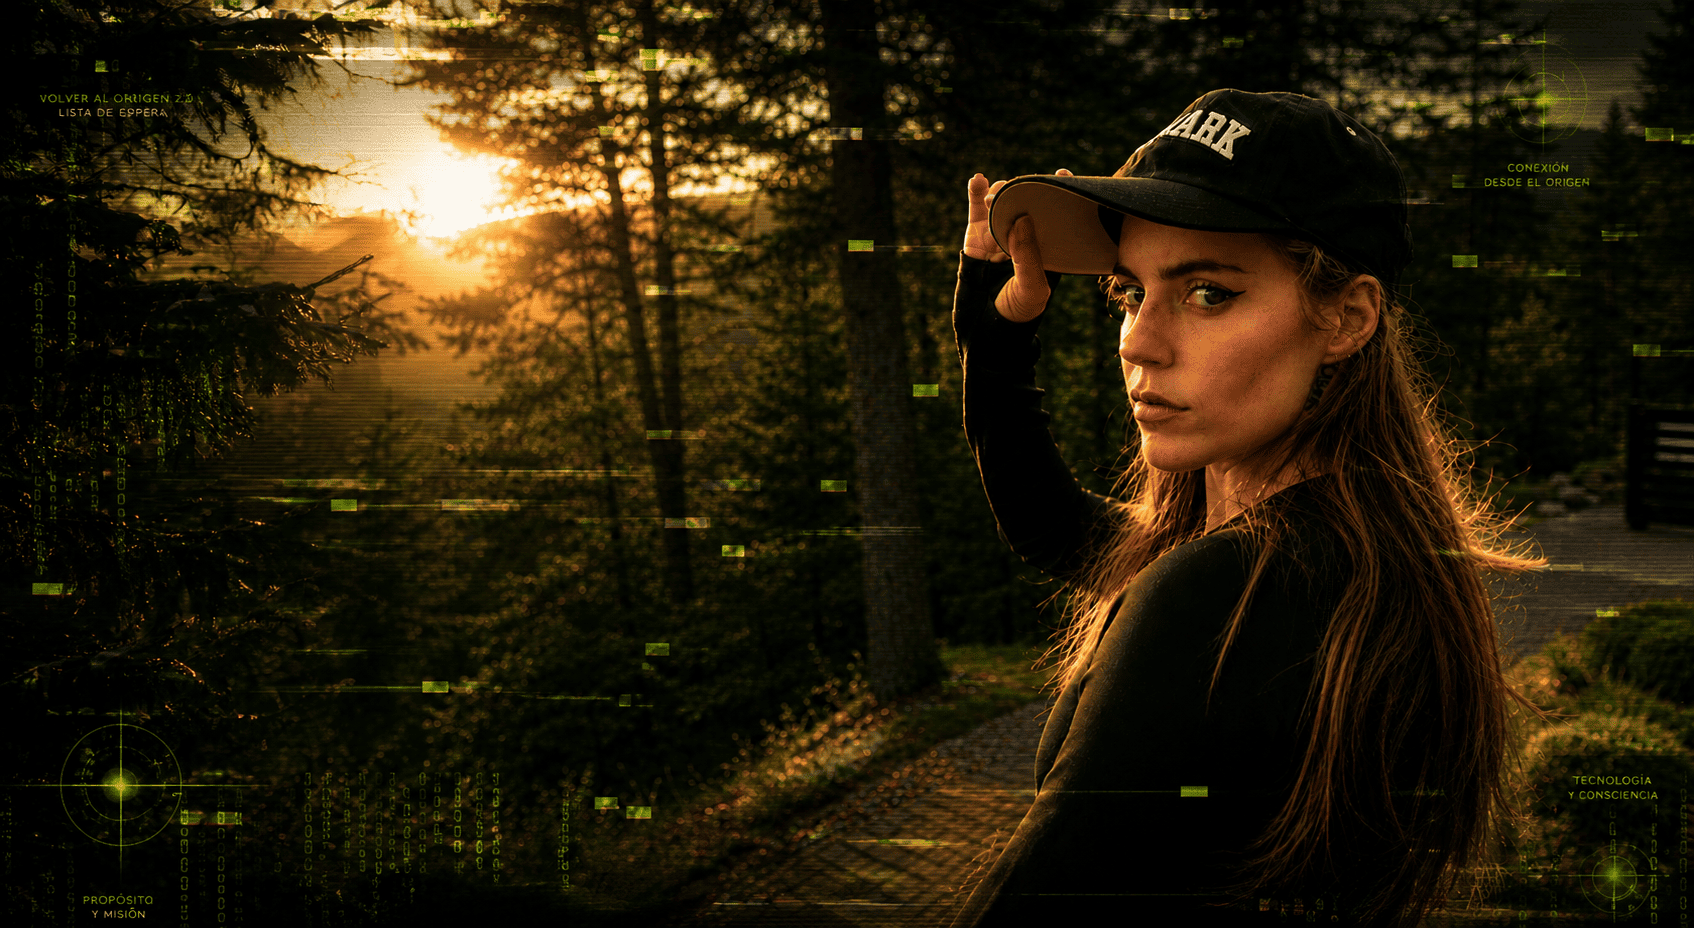
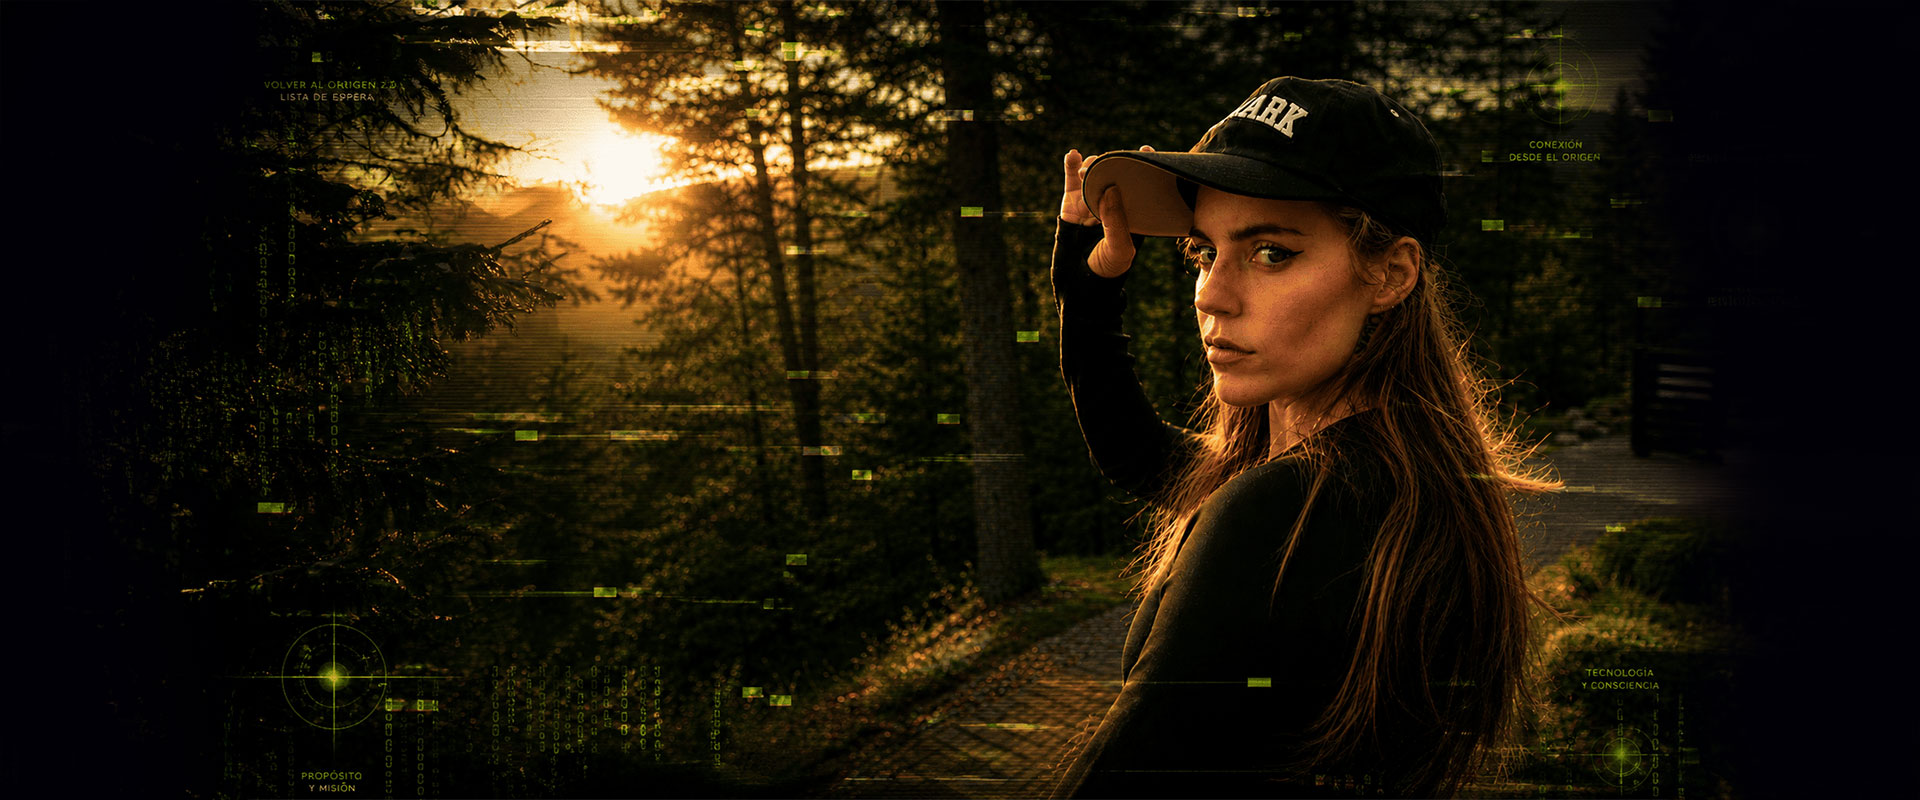
feat(volver-al-origen): raiz del dominio de pauta y hero a 800px
Enrutado
- lp.pilarsousa.es/ pasa a servir la landing de lista de espera, con un
  rewrite condicionado por host: la URL sigue siendo / y los demas
  dominios conservan la landing de venta en su raiz.
- Se retira el redirect de /ventas a / en ese dominio. Con la raiz ya
  ocupada por la lista de espera, ese redirect habria mandado a quien
  buscara la pagina de venta a un formulario de espera, y la habria
  dejado inalcanzable ahi. Ahora /ventas la sirve directamente.

Hero en escritorio
- La seccion pasa de ~1100 a ~817px de alto. hero-seccion.png mide
  1920x800 (2,4:1) y a 1100 la proporcion caia a 1,74:1, con lo que
  object-cover recortaba los laterales y se perdia composicion.
- Para que el panel entrase se recortaron 285px repartidos entre
  padding, logo, titulo, intro, campos y margenes. Todo con prefijo lg:,
  asi que movil y tablet quedan igual.
- min-h y no altura fija: la seccion lleva overflow-hidden y una altura
  fija recortaria el formulario si el contenido creciera.

Otros
- El badge de "Lista de espera" en el hero.
- Las luces del panel se recortan a la banda del borde en vez de verse
  como discos a traves del cristal.
- La bio de Pilar deja de ser desplegable y se muestra completa.

El formulario SIGUE siendo una maqueta: no envia el lead a ningun sitio,
y ahora esta en la raiz del dominio de pauta.

diff --git a/src/components/volver-al-origen/sections/Hero.tsx b/src/components/volver-al-origen/sections/Hero.tsx
@@ -3,6 +3,7 @@ import { MatrixRain } from "@/components/bootcamp/ui/MatrixRain";
 import { VoContainer } from "@/components/volver-al-origen/ui/VoContainer";
 import { LogoVao } from "@/components/volver-al-origen/ui/LogoVao";
 import { SparkDivider } from "@/components/volver-al-origen/ui/SparkDivider";
+import { MovingBorder } from "@/components/volver-al-origen/ui/MovingBorder";
 import { WaitlistForm } from "@/components/volver-al-origen/ui/WaitlistForm";
 import { HERO } from "@/components/volver-al-origen/content";
 import heroBg from "@/../public/volver-origen/public/img/hero/hero-seccion.png";
@@ -36,7 +37,17 @@ export function Hero() {
          qué se estaba apuntando. En el título se ven las dos cosas: el nombre
          del programa arriba y los campos justo debajo. */
       aria-labelledby="registro"
-      className="relative isolate flex min-h-svh items-start overflow-hidden lg:items-center lg:py-20"
+      /* lg:min-h-[800px] y no lg:h-[800px]: la sección lleva overflow-hidden,
+         así que una altura FIJA recortaría el formulario si el contenido se
+         pasara aunque fuera por unos píxeles. Con un mínimo se queda en 800
+         cuando cabe y crece si hace falta, sin cortar nada nunca.
+
+         Los 800 px son los de hero-seccion.png, que mide 1920x800. Antes la
+         sección llegaba a ~1100 por culpa del alto del panel: la proporción
+         caía a 1,74:1 frente a los 2,4:1 de la imagen y object-cover compensaba
+         recortando los laterales, con lo que se perdía composición a izquierda
+         y derecha. */
+      className="relative isolate flex min-h-svh items-start overflow-hidden lg:min-h-[800px] lg:items-center lg:py-6"
     >
       {/* ══ MÓVIL: imagen a sangre desde arriba ══
           Mismo patrón que la sección de Pilar: el retrato ocupa la parte alta,
@@ -138,13 +149,58 @@ export function Hero() {
           En escritorio se anula, porque allí el centrado lo resuelve
           items-center de la sección. */}
       <VoContainer className="pb-16 pt-[calc(68svh-160px)] lg:py-0">
-        {/* 570 px: la mitad exacta del ancho de contenido (1140 px), que es la
-            referencia del diseño. */}
-        <div className="mx-auto w-full max-w-[570px] rounded-lg border border-vo-bone/15 bg-vo-bone/8 px-7 py-10 text-center text-foreground shadow-[0_30px_80px_-40px_rgba(0,0,0,0.9)] backdrop-blur-md sm:px-10 lg:mx-0">
-          <LogoVao className="mx-auto size-32 text-accent sm:size-36" />
+      {/* 570 px: la mitad exacta del ancho de contenido (1140 px), que es la
+          referencia del diseño. */}
+      <div className="relative mx-auto w-full max-w-[570px] lg:mx-0">
+        {/* Capa de luz. Va como HERMANA del panel, no envolviéndolo, y es
+            deliberado: necesita overflow-hidden para recortar la luz a la forma
+            de la card, y en WebKit un ancestro que recorta overflow anula el
+            backdrop-filter de sus descendientes. Envolviendo el panel se
+            quedaría sin su efecto de cristal en iPhone.
 
-          <p className="mt-6 font-display text-xs uppercase tracking-[0.32em] text-accent sm:text-sm">
-            {HERO.eyebrow}
+            Sobresale 2 px por cada lado: esa rendija es por donde asoma la luz
+            que recorre el borde. El resto queda detrás del panel, que al ser
+            translúcido deja intuir la esfera que lo cruza. */}
+        {/* vo-edge-only recorta esta capa a su marco de 2 px. Es lo que
+            convierte cada disco de luz en un tramo encendido del contorno en
+            vez de un pompón atravesando el panel. */}
+        <div
+          aria-hidden
+          className="vo-edge-only pointer-events-none absolute -inset-[2px] overflow-hidden rounded-lg"
+        >
+          <MovingBorder duration={7000} rx="10px" ry="10px">
+            <span className="block size-28 rounded-full bg-[radial-gradient(circle,#ffffff_0%,var(--color-vo-lumen)_30%,transparent_68%)] opacity-70 blur-[3px]" />
+          </MovingBorder>
+          {/* Segunda luz a media vuelta: con una sola, la mitad del contorno
+              está siempre apagada y en una card tan alta se nota. */}
+          <MovingBorder duration={7000} rx="10px" ry="10px" offset={0.5}>
+            <span className="block size-28 rounded-full bg-[radial-gradient(circle,#ffffff_0%,var(--color-vo-lumen)_30%,transparent_68%)] opacity-70 blur-[3px]" />
+          </MovingBorder>
+        </div>
+
+        {/* La esfera va en su propia capa, SIN recortar al borde: su gracia es
+            justamente cruzar la card por dentro. */}
+        <div
+          aria-hidden
+          className="pointer-events-none absolute inset-0 overflow-hidden rounded-lg"
+        >
+          <span className="vo-orb" />
+        </div>
+
+        {/* lg:py-7 recorta 24 px del panel. Todos los "lg:" que aparecen de aquí
+            hacia abajo tienen el mismo origen: encajar el panel dentro de los
+            800 px de la sección. Sumados ahorran unos 190 px. */}
+        <div className="relative rounded-lg border border-vo-bone/15 bg-vo-bone/8 px-7 py-10 text-center text-foreground shadow-[0_30px_80px_-40px_rgba(0,0,0,0.9)] backdrop-blur-md sm:px-10 lg:py-7">
+          <LogoVao className="mx-auto size-32 text-accent sm:size-36 lg:size-24" />
+
+          {/* Badge. inline-flex y no block: así la píldora mide lo que el texto
+              y queda centrada por el text-center del panel, en lugar de ocupar
+              todo el ancho. */}
+          <p className="mt-6 inline-flex items-center rounded-full border border-accent/30 bg-accent/10 px-4 py-1.5 font-display text-xs uppercase tracking-[0.32em] text-accent sm:text-sm lg:mt-4 lg:py-1">
+            {/* El tracking añade espacio DESPUÉS de la última letra, incluida la
+                final. Sin compensarlo, la píldora tiene 0.32em de más a la
+                derecha y el texto se ve descentrado dentro de ella. */}
+            <span className="-mr-[0.32em]">{HERO.eyebrow}</span>
           </p>
 
           {/* scroll-mt-8: sin margen el título queda pegado al borde superior
@@ -156,15 +212,15 @@ export function Hero() {
             <span className="block text-xl tracking-[0.14em] text-foreground/85 sm:text-2xl">
               {HERO.titleTop}
             </span>
-            <span className="mt-1 block text-4xl tracking-[0.05em] sm:text-[3.1rem]">
+            <span className="mt-1 block text-4xl tracking-[0.05em] sm:text-[3.1rem] lg:text-[2.6rem]">
               {HERO.titleMain[0]}
             </span>
-            <span className="block text-5xl tracking-[0.03em] sm:text-[4rem]">
+            <span className="block text-5xl tracking-[0.03em] sm:text-[4rem] lg:text-[3.3rem]">
               {HERO.titleMain[1]}
             </span>
           </h1>
 
-          <SparkDivider className="mt-5" />
+          <SparkDivider className="mt-5 lg:mt-4" />
 
           {/* Es el subtitular que explica la oferta, así que va por encima del
               cuerpo de texto normal: 18 px y peso normal, no light.
@@ -174,7 +230,7 @@ export function Hero() {
               lo menos legible de la página. Se queda en 18 y no más arriba
               porque la frase es larga (240 caracteres) y dentro del panel de
               570 px cada punto extra le suma una línea. */}
-          <p className="mt-5 font-sans text-base leading-relaxed text-foreground/90 sm:text-lg">
+          <p className="mt-5 font-sans text-base leading-relaxed text-foreground/90 sm:text-lg lg:mt-4 lg:text-base">
             {HERO.intro.map((part) =>
               part.strong ? (
                 <strong key={part.text} className="font-semibold text-foreground">
@@ -186,14 +242,15 @@ export function Hero() {
             )}
           </p>
 
-          <div className="mt-6">
+          <div className="mt-6 lg:mt-5">
             <WaitlistForm />
           </div>
 
-          <p className="mt-4 font-sans text-xs font-light text-foreground/60">
+          <p className="mt-4 font-sans text-xs font-light text-foreground/60 lg:mt-3">
             {HERO.privacy}
           </p>
         </div>
+      </div>
       </VoContainer>
     </section>
   );

diff --git a/src/components/volver-al-origen/ui/PilarBio.tsx b/src/components/volver-al-origen/ui/PilarBio.tsx
@@ -1,36 +1,19 @@
-"use client";
-
-import { useState } from "react";
-import { ChevronDown } from "lucide-react";
-import { cn } from "@/lib/cn";
 import { PILAR } from "@/components/volver-al-origen/content";
 
 /*
-  Bio de Pilar con "Leer más" en móvil.
+  Bio de Pilar, completa en todos los tamaños.
 
-  Replica el comportamiento del PilarBio de Misión Origen, repintado a esta
-  paleta: en móvil se muestran los dos primeros párrafos y el resto se despliega;
-  en escritorio la bio va entera y el botón desaparece, porque ahí hay sitio de
-  sobra y un desplegable sólo añadiría un clic inútil.
+  Antes esto era un desplegable: en móvil mostraba los dos primeros párrafos y
+  escondía el resto tras un botón "Leer más". Se retiró a petición — la historia
+  es corta y el clic extra sólo ponía una puerta delante de algo que ya cabía.
 
-  El colapso usa grid-template-rows 0fr→1fr en vez de height. Es la única forma
-  de animar hacia "alto automático" sin medir el contenido en JS: display:none
-  no es animable y una altura fija exigiría conocer de antemano cuánto ocupa el
-  texto.
+  Al quedarse sin estado deja de necesitar "use client": ahora se renderiza en el
+  servidor y no manda nada de JavaScript al navegador.
 */
-
-const VISIBLE = 2;
-
 export function PilarBio() {
-  const [expanded, setExpanded] = useState(false);
-
-  const visible = PILAR.paragraphs.slice(0, VISIBLE);
-  const extra = PILAR.paragraphs.slice(VISIBLE);
-  const hasHidden = extra.length > 0;
-
   return (
     <div className="flex flex-col gap-4">
-      {visible.map((text) => (
+      {PILAR.paragraphs.map((text) => (
         <p
           key={text}
           className="font-sans text-base leading-relaxed text-foreground/85 sm:text-lg"
@@ -38,49 +21,6 @@ export function PilarBio() {
           {text}
         </p>
       ))}
-
-      {hasHidden && (
-        <div
-          id="vo-pilar-bio-extra"
-          className={cn(
-            "grid transition-[grid-template-rows,opacity] duration-500 ease-in-out motion-reduce:transition-none lg:grid-rows-[1fr] lg:opacity-100",
-            expanded ? "grid-rows-[1fr] opacity-100" : "grid-rows-[0fr] opacity-0",
-          )}
-        >
-          {/* El hijo directo del grid necesita overflow-hidden y min-h-0 para
-              que el colapso recorte de verdad en lugar de desbordar. */}
-          <div className="flex min-h-0 flex-col gap-4 overflow-hidden">
-            {extra.map((text) => (
-              <p
-                key={text}
-                className="font-sans text-base leading-relaxed text-foreground/85 sm:text-lg"
-              >
-                {text}
-              </p>
-            ))}
-          </div>
-        </div>
-      )}
-
-      {hasHidden && (
-        <button
-          type="button"
-          onClick={() => setExpanded((v) => !v)}
-          aria-expanded={expanded}
-          aria-controls="vo-pilar-bio-extra"
-          className="group mt-1 inline-flex w-fit items-center gap-2 self-center rounded-full border border-accent/30 bg-accent/5 px-5 py-2.5 font-sans text-sm font-medium uppercase tracking-[0.15em] text-accent transition-all duration-300 hover:border-accent/60 hover:bg-accent/10 focus-visible:outline-2 focus-visible:outline-offset-2 focus-visible:outline-accent lg:hidden"
-        >
-          {expanded ? "Leer menos" : "Leer más"}
-          <ChevronDown
-            size={16}
-            aria-hidden
-            className={cn(
-              "transition-transform duration-500 ease-in-out motion-reduce:transition-none",
-              expanded && "rotate-180",
-            )}
-          />
-        </button>
-      )}
     </div>
   );
 }

diff --git a/src/app/globals.css b/src/app/globals.css
@@ -1113,6 +1113,81 @@
 }
 
 /*
+  Recorta una capa a la banda de su borde, dejando hueco el interior.
+
+  Sin esto, las luces que recorren el contorno del panel del hero se ven como
+  pompones: son discos difuminados de más de 100 px y el panel es translúcido,
+  así que el disco entero se transparenta hacia dentro en lugar de leerse como
+  una luz sobre el filo.
+
+  Achicar los discos no lo arregla —seguirían desbordando y encima se apagaría
+  el resplandor—. Lo que hace falta es recortar, y para eso se superponen dos
+  máscaras: una cubre toda la caja y otra sólo su interior (content-box). Al
+  componerlas con exclude se cancelan donde coinciden, y lo único que sobrevive
+  es el marco de 2 px. Del disco sólo se ve el tramo que lo pisa.
+
+  El par -webkit- no es redundante: Safari sigue necesitando su prefijo para
+  mask-composite, y su valor equivalente se llama xor, no exclude.
+*/
+.vo-edge-only {
+  padding: 2px;
+  -webkit-mask:
+    linear-gradient(#fff 0 0) content-box,
+    linear-gradient(#fff 0 0);
+  -webkit-mask-composite: xor;
+  mask:
+    linear-gradient(#fff 0 0) content-box,
+    linear-gradient(#fff 0 0);
+  mask-composite: exclude;
+}
+
+/*
+  Esfera luminosa que recorre el panel del hero.
+
+  Deriva en diagonal y vuelve, en un ciclo largo (22 s) y con muy poca opacidad:
+  la idea es que se intuya al mirar fijo, no que llame la atención. Un recorrido
+  corto o un contraste alto la convertirían en un elemento más de la página
+  compitiendo con el formulario.
+
+  Va detrás del panel de cristal, así que el backdrop-filter de éste la difumina
+  todavía más. El blur propio es generoso de todas formas: si el navegador no
+  aplicara ese backdrop —WebKit lo desactiva en cuanto un ancestro recorta
+  overflow— la esfera seguiría leyéndose suave y no como un círculo definido.
+
+  El animation-play-state se detiene bajo prefers-reduced-motion por el reset
+  global de animaciones; la esfera se queda quieta en su posición inicial, que es
+  el comportamiento correcto.
+*/
+@keyframes vo-orb-drift {
+  0% {
+    transform: translate(-12%, 12%) scale(1);
+  }
+  50% {
+    transform: translate(62%, 48%) scale(1.25);
+  }
+  100% {
+    transform: translate(-12%, 12%) scale(1);
+  }
+}
+
+.vo-orb {
+  position: absolute;
+  top: 0;
+  left: 0;
+  width: 58%;
+  aspect-ratio: 1;
+  border-radius: 9999px;
+  background: radial-gradient(
+    circle,
+    rgb(255 255 255 / 0.15) 0%,
+    rgb(180 226 54 / 0.1) 45%,
+    transparent 70%
+  );
+  filter: blur(30px);
+  animation: vo-orb-drift 22s ease-in-out infinite;
+}
+
+/*
   Card de Volver al Origen — misma pieza que .fancy-card de Misión Origen, con
   esta paleta. El recurso es el panel inclinado que asoma por detrás: un ::after
   del mismo tamaño, girado 7 grados y encogido, que al pasar el puntero gira un

diff --git a/next.config.ts b/next.config.ts
@@ -9,17 +9,33 @@ const nextConfig: NextConfig = {
     qualities: [75, 90],
   },
 
+  async rewrites() {
+    return [
+      /* En el dominio de pauta la raíz sirve la landing de LISTA DE ESPERA de
+         la tercera edición, no la de venta.
+
+         Es un rewrite y no un redirect: la URL sigue siendo lp.pilarsousa.es/ y
+         el visitante nunca ve /volver-al-origen. Con un redirect la barra de
+         direcciones cambiaría y las URL de la pauta dejarían de coincidir con
+         lo que se comparte.
+
+         Condicionado por host, igual que el resto de reglas de este archivo:
+         los demás dominios conservan la landing de venta en su raíz. */
+      {
+        source: "/",
+        has: [{ type: "host", value: "lp.pilarsousa.es" }],
+        destination: "/volver-al-origen",
+      },
+    ];
+  },
+
   async redirects() {
     return [
-      /* En el dominio de pauta, /ventas queda como alias técnico viejo: la URL
-         pública/canónica es /. No hacerlo global: otros dominios pueden tener
-         otra raíz. */
-      {
-        source: "/ventas",
-        has: [{ type: "host", value: "lp.pilarsousa.es" }],
-        destination: "/",
-        permanent: false,
-      },
+      /* NOTA: aquí había un redirect de /ventas a / en el dominio de pauta,
+         de cuando la raíz era la landing de venta. Se retiró al pasar la raíz
+         a la lista de espera: mantenerlo habría mandado a quien buscara la
+         página de venta a un formulario de espera, y habría dejado esa landing
+         inalcanzable en ese dominio. Ahora /ventas la sirve directamente. */
       /* La gracias del Bootcamp se movió a /bootcamp/gracias. El checkout de
          Stripe todavía puede apuntar a /gracias: esta red de seguridad evita
          que el comprador caiga en un 404 tras pagar. Quitar una vez que la URL

diff --git a/src/components/volver-al-origen/ui/WaitlistForm.tsx b/src/components/volver-al-origen/ui/WaitlistForm.tsx
@@ -48,8 +48,11 @@ type Status = "idle" | "submitting" | "success";
 /* El formulario vive sobre el panel translúcido del hero, encima de la foto.
    Por eso los campos son oscuros y translúcidos con texto claro: un campo
    blanco sólido rompería la transparencia que se buscaba en el panel. */
+/* lg:h-12 baja los campos de 52 a 48 px en escritorio: son 12 px menos entre
+   los tres, parte del recorte que hace caber el panel en los 800 px de alto
+   del hero. */
 const FIELD_CLASS =
-  "h-[52px] w-full rounded-sm border bg-vo-black/40 pl-12 pr-4 font-sans text-sm font-light text-foreground outline-none backdrop-blur-sm transition-all duration-300 placeholder:text-foreground/55";
+  "h-[52px] w-full rounded-sm border bg-vo-black/40 pl-12 pr-4 font-sans text-sm font-light text-foreground outline-none backdrop-blur-sm transition-all duration-300 placeholder:text-foreground/55 lg:h-12";
 
 /* Cuánto se mantiene la confirmación en pantalla antes de navegar. Da tiempo a
    leer el mensaje y a ver el check dibujarse, sin llegar a hacerse espera. */

diff --git a/src/components/volver-al-origen/sections/Pilar.tsx b/src/components/volver-al-origen/sections/Pilar.tsx
@@ -192,10 +192,16 @@ export function Pilar() {
             <PilarBio />
           </div>
 
-          {/* Centrado respecto a la columna de texto, no alineado a su borde. */}
+          {/* En móvil centrado; en escritorio pegado al borde izquierdo, para
+              que arranque en la misma vertical que los párrafos.
+
+              El tope de 448 px se levanta a partir de lg y el botón pasa a
+              ocupar el ancho de la columna (unos 547 px). Es lo que hace que el
+              texto entre en una sola línea: con el tope puesto no le cabía y
+              partía en "…LISTA DE / ESPERA". */}
           <ScrollIn delay={0.2}>
-            <div className="mt-9 flex justify-center">
-              <VoCta href={FORM_ANCHOR} className="max-w-md">
+            <div className="mt-9 flex justify-center lg:justify-start">
+              <VoCta href={FORM_ANCHOR} className="max-w-md lg:max-w-none">
                 {PILAR.cta}
               </VoCta>
             </div>
